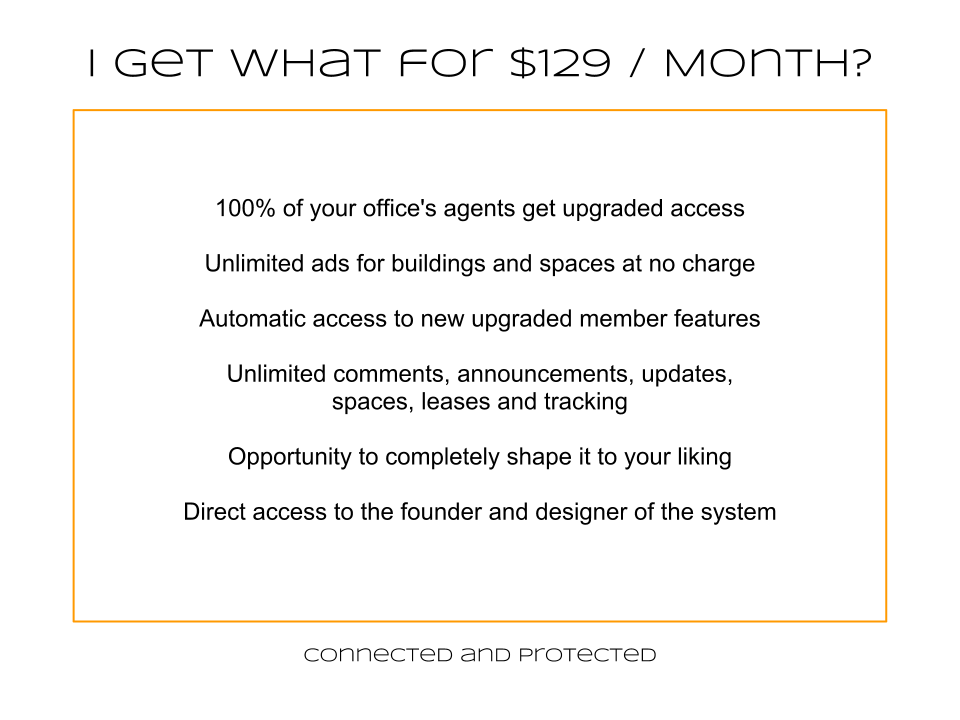
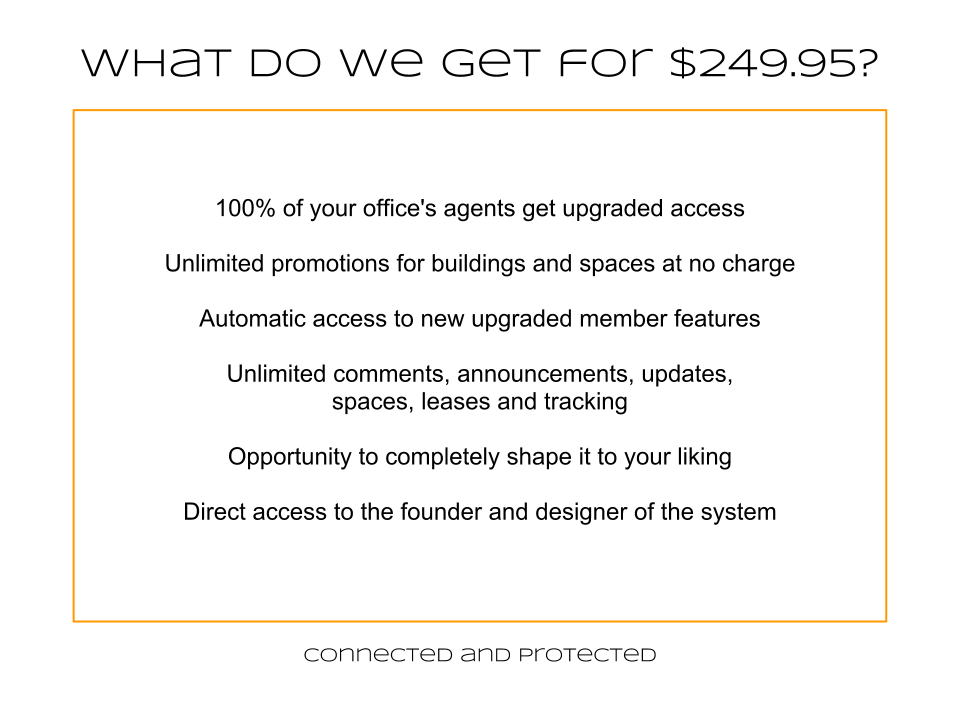
added city geocode reference and removed upgrade need for ads

Changed region(s): [[0.0938, 0.0611, 0.9375, 0.1222], [0.1875, 0.3361, 0.8438, 0.3972]]

diff --git a/app/controllers/spaces_controller.rb b/app/controllers/spaces_controller.rb
@@ -18,6 +18,7 @@ class SpacesController < ApplicationController
     @space = Space.find(params[:id])
     @micropost = Micropost.new if signed_in?
     @feed_items = @space.feed
+    @user_ad_availability = Ad.find_by_space_id_and_user_id(@space.id,@user.id)
     @lease = Lease.find_by_space_id(params[:id])
     @ad_slot1 = Ad.find_by_space_id_and_slot(@space.id,'s1')
     @ad_slot2 = Ad.find_by_space_id_and_slot(@space.id,'s2')

diff --git a/app/controllers/subscriptions_controller.rb b/app/controllers/subscriptions_controller.rb
@@ -11,7 +11,7 @@ class SubscriptionsController < ApplicationController
 			@user = User.find(current_user.id)
 			@subscription = Subscription.new(params[:subscription])
 				if @subscription.save_with_payment
-					@user.upgrade = 'Upgrade129'
+					@user.upgrade = 'Upgrade'
 					@user.save!
 					UserMailer.upgrade_email(@user).deliver
 					UserMailer.upgrade_notification(@user).deliver

diff --git a/app/controllers/application_controller.rb b/app/controllers/application_controller.rb
@@ -12,6 +12,10 @@ def new_stuff
     @user = User.find(current_user.id)
     @leases = @user.leases
   end
+  @city = request.location.city
+  if @city != '' and @city.near("Sacramento, California")
+    @region = "Sacramento"
+  end
 end
 
 private 
